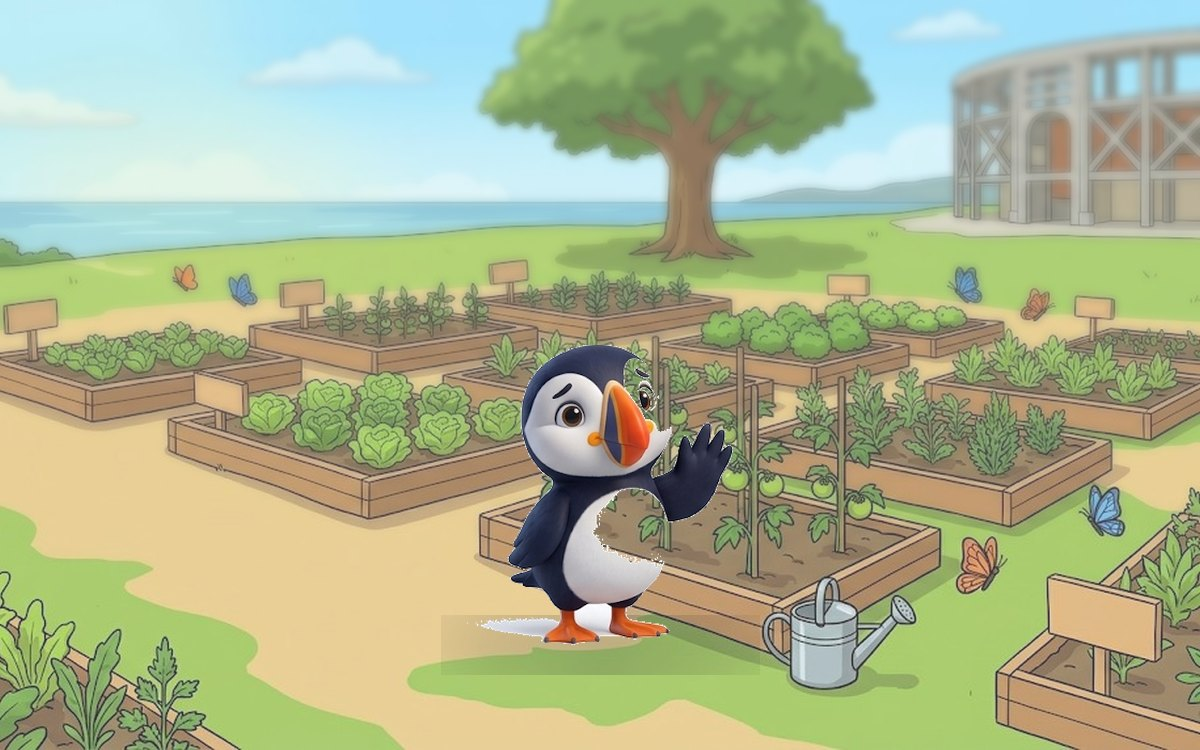
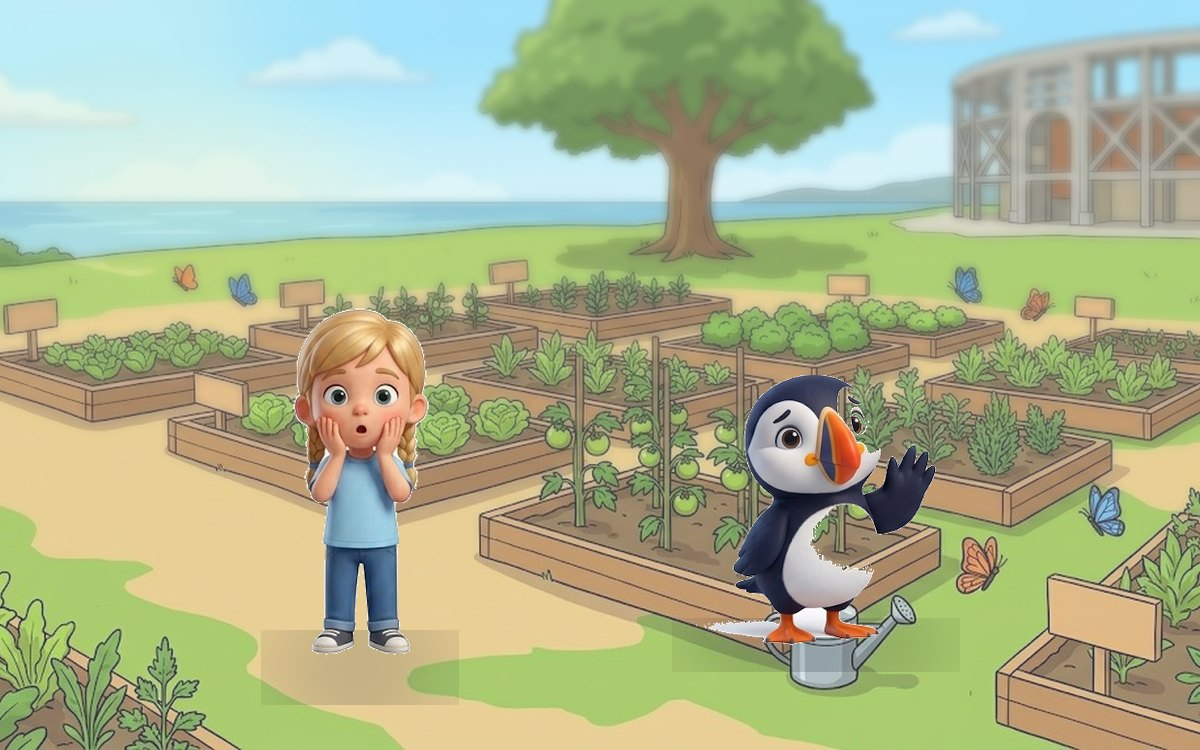
Tres arreglos en el cuento de Pip, y un revisor para los cuentos
La pose 3 estaba mal catalogada: Astrid, Tomas, Erik, Valentina y Kili
abren las dos manos y son simetricos, pero Freya, Nico, Mateo, Ingrid,
Diego, Maya y Sofia extienden UNA, y esa si apunta a un lado. Por eso
Freya preguntaba 'Hello, bird! What is your name?' mirando al lado
contrario de donde estaba Pip.

En la pagina siguiente Pip deletreaba su nombre solo: Freya habia
desaparecido a mitad de la conversacion. Vuelve.

Y 'Hello, friends! Let's play!' pasaba delante del laberinto, que de
frente se lee como una pared: ahora es la escalinata del campus.

check_readers.py revisa esto en los 24 cuentos: que la respuesta a una
pregunta conserve a los dos que hablan, que a quien nombra el texto se le
vea -salvo cuando el cuento trata justo de que no esta, como Pip
escondido o Luna escapada- y que quien senala tenga algo a ese lado.

Changed region(s): [[0.4008, 0.46, 0.8017, 0.92], [0.2158, 0.3987, 0.37, 0.9507]]

diff --git a/engine/orientacion.js b/engine/orientacion.js
@@ -11,6 +11,13 @@
  * entra: voltear una figura frontal no arregla nada y puede estropear una
  * asimetria buscada (una mochila, un objeto en una mano).
  *
+ * Cuidado con la pose 3: no es la misma en todos. Astrid, Tomas, Erik,
+ * Valentina y Kili abren LAS DOS manos y son simetricos; Freya, Nico,
+ * Mateo, Ingrid, Diego, Maya y Sofia extienden UNA, y esa si apunta a un
+ * lado. Se catalogo mal la primera vez -daba igual a todos- y Freya acabo
+ * diciendo "Hello, bird! What is your name?" mirando al lado contrario de
+ * donde estaba Pip.
+ *
  * Quien lo usa da vuelta la imagen con scaleX(-1) cuando la direccion no
  * apunta al contenido. No hay arte nuevo: es el mismo PNG reflejado.
  *
@@ -19,8 +26,8 @@
  */
 window.ORIENTACION = {
   // Starters: los cuatro ninos comparten set de poses
-  'starters/freya':  { 2: 'izq', 7: 'der' },
-  'starters/nico':   { 2: 'izq', 7: 'der' },
+  'starters/freya':  { 2: 'izq', 3: 'izq', 7: 'der' },
+  'starters/nico':   { 2: 'izq', 3: 'izq', 7: 'der' },
   'starters/astrid': { 2: 'izq', 7: 'der' },
   'starters/tomas':  { 2: 'izq', 7: 'der' },
   // Pip esta girado a la izquierda en casi todas
@@ -28,13 +35,13 @@ window.ORIENTACION = {
 
   'movers/erik':      { 7: 'der' },
   'movers/valentina': { 7: 'der' },
-  'movers/sofia':     { 7: 'der' },
-  'movers/mateo':     { 2: 'izq', 7: 'der' },
+  'movers/sofia':     { 3: 'izq', 7: 'der' },
+  'movers/mateo':     { 2: 'izq', 3: 'izq', 7: 'der' },
   'movers/luna':      { 2: 'der' },
 
-  'flyers/ingrid': { 4: 'der', 7: 'izq' },
-  'flyers/maya':   { 7: 'izq' },
-  'flyers/oliver': { 7: 'izq' },
+  'flyers/ingrid': { 3: 'izq', 4: 'der', 7: 'izq' },
+  'flyers/maya':   { 3: 'izq', 7: 'izq' },
+  'flyers/oliver': { 3: 'der', 7: 'izq' },
   'flyers/kili':   { 2: 'izq' },
 };
 

diff --git a/engine/index.html b/engine/index.html
@@ -485,7 +485,7 @@ const AUDIO_V = '2026-08-27';   // sube al grabar audio nuevo
    el 27-ago-2026 el alumno miraba el zoo vacio y la fachada del colegio
    donde la historia dice cocina del faro. Con la version en la URL, cada
    publicacion se ve sola y no hay que vaciar la cache a mano. */
-const ART_V = '2026-08-27c';    // sube al cambiar laminas o dibujos
+const ART_V = '2026-08-28';    // sube al cambiar laminas o dibujos
 // banner.js se carga antes que este script y tambien pinta personajes:
 // se comparte por window para no depender del orden de carga.
 window.ART_V = ART_V;

diff --git a/readers/index.html b/readers/index.html
@@ -115,7 +115,7 @@
 /* Los dibujos de los cuentos se cachean siete dias en el borde, asi que
    una pagina rehecha seguia sin verse. Con la version en la URL cada
    publicacion se ve sola; se sube al regenerar las ilustraciones. */
-const ART_V = '2026-08-27c';
+const ART_V = '2026-08-28';
 
 const HOME = (() => {
   const CLAVE = 'nlr-home';

diff --git a/tools/check_readers.py b/tools/check_readers.py
@@ -1,0 +1,112 @@
+# -*- coding: utf-8 -*-
+"""Revisa que las paginas de los cuentos cuenten lo que dice su texto.
+
+Tres cosas, que son las que se han visto fallar de verdad:
+
+  la conversacion   si una pagina responde a la pregunta de la anterior,
+                    los dos que hablan tienen que seguir en el dibujo. En
+                    "Hello, bird! What is your name?" contestaba "My name
+                    is Pip" con Pip solo: un pajaro hablando al aire.
+
+  quien se nombra   si el texto dice un nombre del elenco, ese personaje
+                    tiene que estar en la pagina.
+
+  a donde mira      quien senala necesita algo a ese lado. El volteo lo
+                    hace build_readers.py; aqui se comprueba que ademas
+                    haya algo hacia donde mirar.
+
+    python tools/check_readers.py
+"""
+import io, os, re, sys
+
+ROOT = os.path.dirname(os.path.dirname(os.path.abspath(__file__)))
+sys.path.insert(0, os.path.join(ROOT, "tools"))
+
+
+def orientaciones():
+    fuera = {}
+    try:
+        txt = io.open(os.path.join(ROOT, "engine", "orientacion.js"),
+                      encoding="utf-8").read()
+    except Exception:
+        return fuera
+    for m in re.finditer(r"'([a-z]+)/([a-z]+)':\s*\{([^}]*)\}", txt):
+        for pose, lado in re.findall(r"(\d+)\s*:\s*'(izq|der)'", m.group(3)):
+            fuera[(m.group(2), int(pose))] = lado
+    return fuera
+
+
+def quienes(piezas):
+    return [p[0].split(":")[2] for p in piezas if p[0].startswith("char:")]
+
+
+def revisa(cuentos, elenco):
+    ori = orientaciones()
+    avisos = []
+    for c in cuentos:
+        pags = c["paginas"]
+        for i, p in enumerate(pags):
+            gente = quienes(p["piezas"])
+            texto = p["t"]
+
+            # 1. la respuesta a una pregunta conserva a los dos que hablan
+            if i and pags[i - 1]["t"].rstrip().endswith("?"):
+                antes = quienes(pags[i - 1]["piezas"])
+                se_fueron = [q for q in antes if q not in gente]
+                if se_fueron and len(antes) > 1:
+                    avisos.append((c["id"], i + 1,
+                                   "responde a una pregunta y %s ya no esta"
+                                   % ", ".join(se_fueron)))
+
+            # 2. A quien nombra el texto tiene que verse, salvo cuando el
+            #    propio texto dice que NO esta: "Where Is Pip?" es un juego
+            #    de buscar y "Luna Runs Away" va de que se ha escapado.
+            #    Dibujarlos ahi destriparia el cuento.
+            bajo = texto.lower()
+            for q in elenco:
+                if q in gente or not re.search(r"\b" + q + r"\b", bajo):
+                    continue
+                se_busca = (q in (p.get("ausente") or [])
+                            or "?" in texto
+                            or re.search(r"\bno " + q + r"\b", bajo)
+                            or re.search(r"\b" + q + r" (is gone|ran away)", bajo))
+                if not se_busca:
+                    avisos.append((c["id"], i + 1,
+                                   "el texto nombra a %s y no sale" % q))
+
+            # 3. quien senala necesita algo a ese lado
+            for nombre, x, y, s in p["piezas"]:
+                if not nombre.startswith("char:"):
+                    continue
+                _, _, quien, pose = nombre.split(":")
+                if (quien, int(pose)) not in ori:
+                    continue
+                # con la figura sola en la pagina no hay nada a ningun lado:
+                # no es que senale al vacio, es que no la acompana nadie
+                if len(p["piezas"]) < 2:
+                    continue
+                hacia = "der" if x < .5 else "izq"
+                hay = [n for n, xx, *_ in p["piezas"]
+                       if n != nombre and ((xx > x + .04) if hacia == "der"
+                                           else (xx < x - .04))]
+                if not hay:
+                    avisos.append((c["id"], i + 1,
+                                   "%s senala a la %s y no hay nada a ese lado"
+                                   % (quien, "derecha" if hacia == "der" else "izquierda")))
+    return avisos
+
+
+if __name__ == "__main__":
+    import build_readers as B
+    elenco = set()
+    base = os.path.join(ROOT, "assets", "characters")
+    for lvl in os.listdir(base):
+        elenco |= set(os.listdir(os.path.join(base, lvl)))
+
+    avisos = revisa(B.CUENTOS, elenco)
+    if not avisos:
+        print("  todo cuadra: cada pagina ensena lo que cuenta")
+    else:
+        print("  %d paginas que no cuadran con su texto:" % len(avisos))
+        for cid, n, que in avisos:
+            print("   %-8s pag %-3s %s" % (cid, n, que))

diff --git a/tools/build_readers.py b/tools/build_readers.py
@@ -62,14 +62,20 @@ CUENTOS = [
    "piezas": [("char:starters:freya:3", .34, .64, .52),
               ("char:starters:pip:3", .66, .70, .32)]},
   {"t": "My name is Pip. P - I - P!", "clave": ["name"], "fondo": "garden",
-   "piezas": [("char:starters:pip:1", .50, .66, .40)]},
+   # Freya sigue ahi: acaba de preguntar en la pagina anterior y esta es la
+   # respuesta. Sin ella la conversacion se queda a medias y el nino ve un
+   # pajaro hablando solo.
+   "piezas": [("char:starters:freya:5", .30, .64, .50),
+              ("char:starters:pip:1", .68, .68, .36)]},
   {"t": "Hello, Pip! I am Astrid.", "clave": ["hello"], "fondo": "classroom",
    "piezas": [("char:starters:astrid:1", .34, .62, .54),
               ("char:starters:pip:2", .68, .70, .30)]},
   {"t": "Hello, Pip! I am Tomas.", "clave": ["hello"], "fondo": "classroom",
    "piezas": [("char:starters:tomas:1", .34, .62, .54),
               ("char:starters:pip:5", .68, .70, .30)]},
-  {"t": "Hello, friends! Let's play!", "clave": ["friends"], "fondo": "labyrinth",
+  # Las escaleras del campus, no el laberinto: visto de frente el maze se lee
+  # como una pared y los ninos parecen puestos delante de un muro.
+  {"t": "Hello, friends! Let's play!", "clave": ["friends"], "fondo": "mirador",
    "piezas": [("char:starters:freya:10", .20, .64, .50),
               ("char:starters:nico:10", .38, .65, .50),
               ("char:starters:astrid:10", .58, .64, .50),

diff --git a/tools/readers_movers.py b/tools/readers_movers.py
@@ -90,6 +90,9 @@ CUENTOS_MOVERS = [
   {"t": "Everybody said it at the same time: 'THE FARM.' Luna loves the "
         "cows and the cows do not love Luna.",
    "clave": ["farm", "cows"], "fondo": "picnic-garden",
+   # Luna se nombra pero todavia no aparece: la estan buscando y sale en la
+   # pagina siguiente. Se declara para que el revisor no la pida aqui.
+   "ausente": ["luna"],
    "piezas": [("cow", .34, .70, .26), ("char:movers:valentina:3", .72, .68, .48)]},
   {"t": "They ran down the hill. Erik ran last because he was carrying his "
         "machine, of course.",
